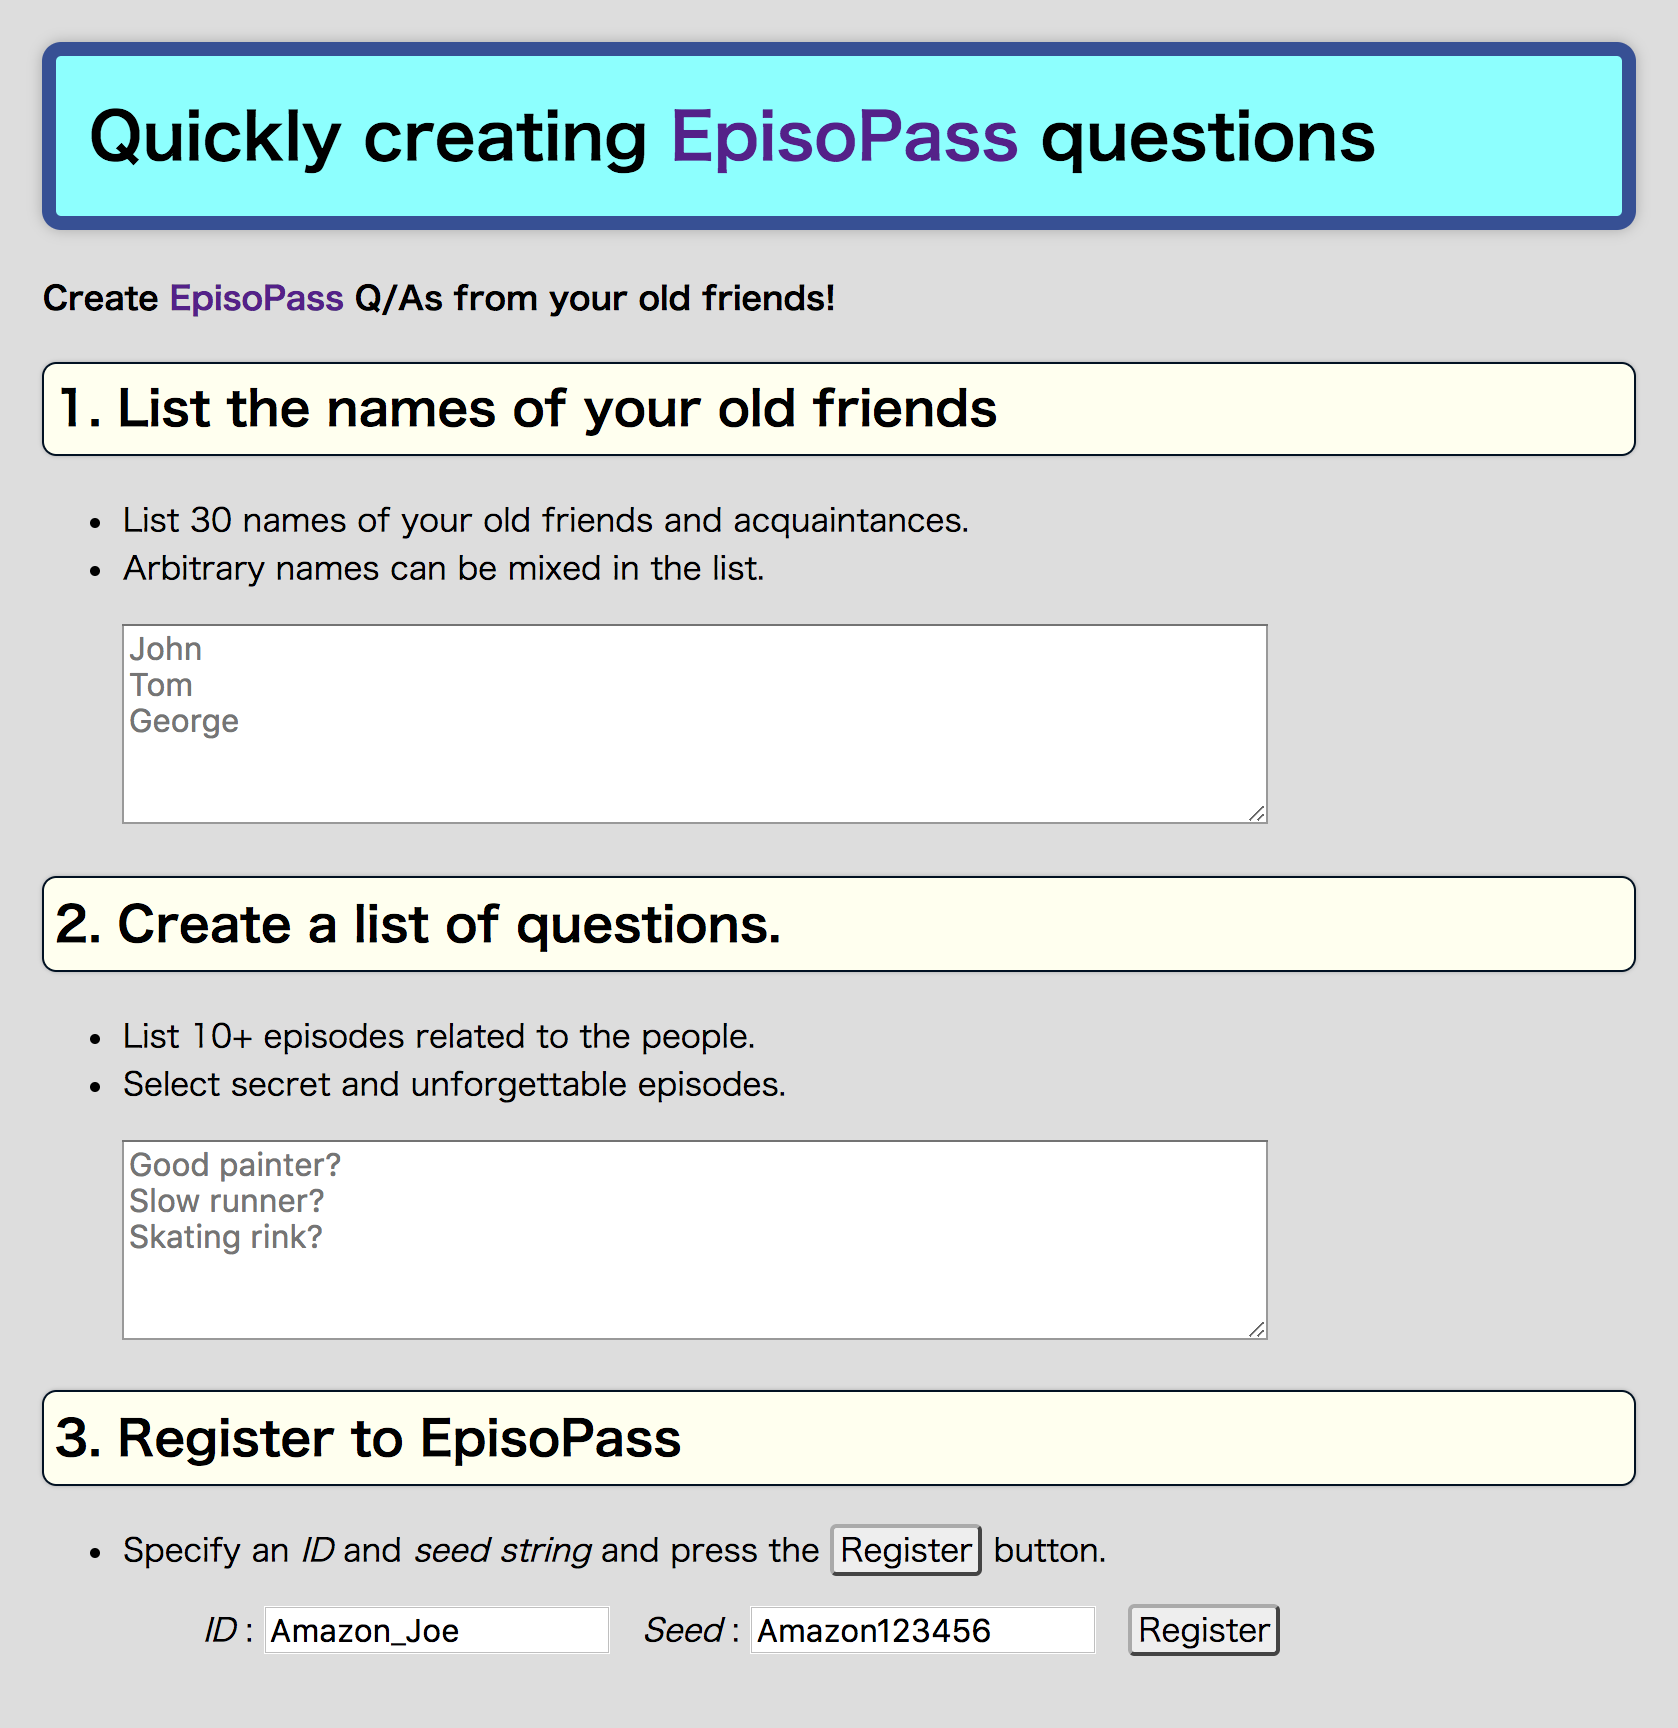
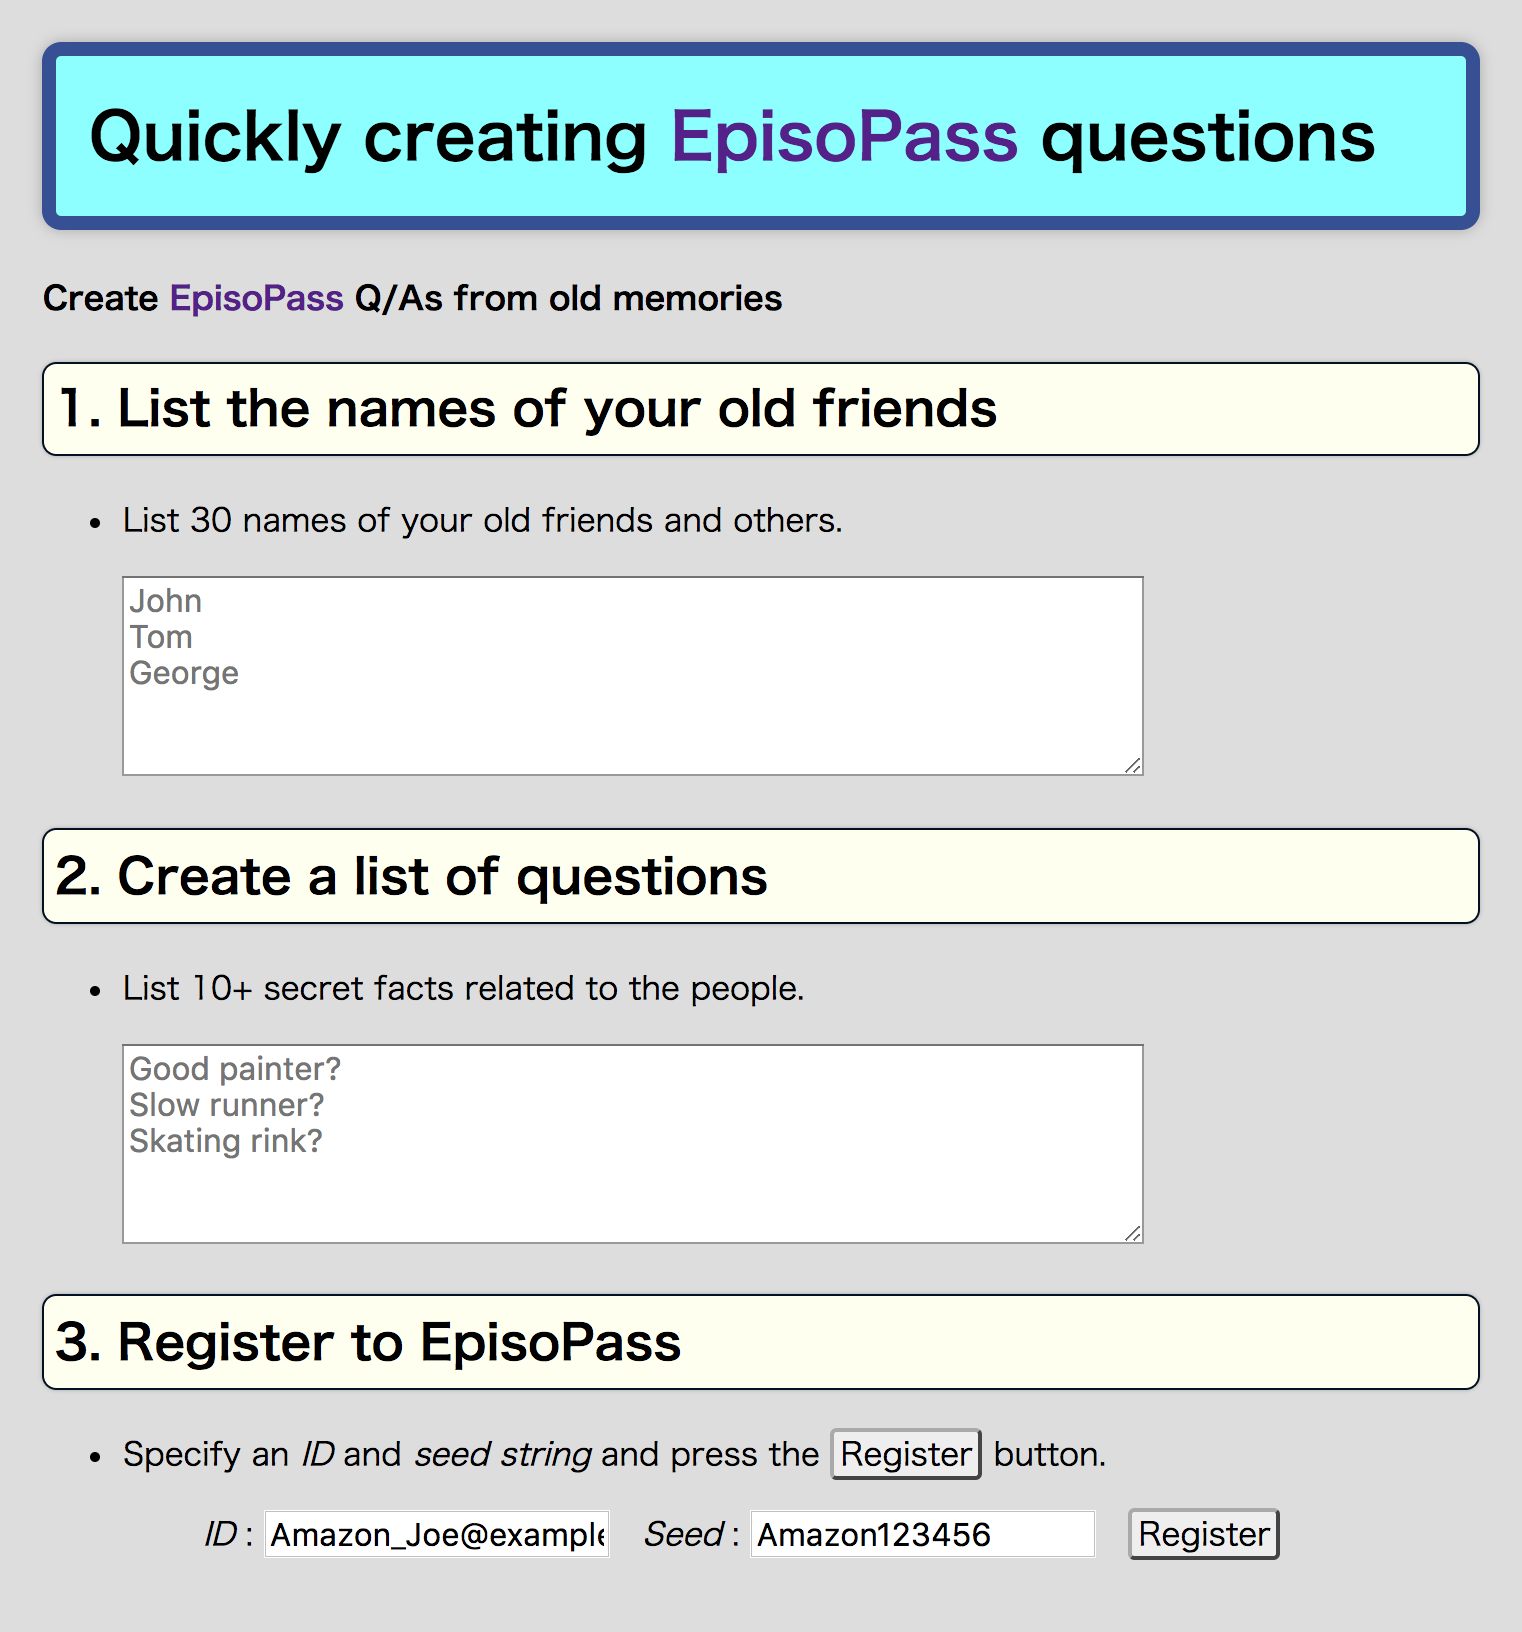
投稿版 (たぶん)

Changed region(s): [[0.0, 0.5, 0.9882, 0.9688], [0.0, 0.0312, 0.9882, 0.4688], [0.9573, 0.5, 0.9882, 0.5625]]

diff --git a/paper/AVI2018/paper.tex b/paper/AVI2018/paper.tex
@@ -194,7 +194,7 @@ password-based authentication, but
 they are sometimes fragile to attacks or memorization is difficult.
 
 We propose a new visual password generation system \textit{EpisoDAS}
-that posesses the advantages of both EpisoPass and DAS-based methods.
+that possesses the advantages of both EpisoPass and DAS-based methods.
 
 \begin{figure}[t]
   % \includegraphics[width=8cm,bb=0 0 840 792]{figures/DAS.png}
@@ -260,7 +260,7 @@ The contents and the order of the questions
 do not depend on the user's actions, and
 the user cannot tell whether he has selected a right answer.
 %
-After repeating the slection process ten times,
+After repeating the selection process ten times,
 the user can get his password
 calculated from his selections (Figure \ref{Result}).
 
@@ -271,7 +271,7 @@ calculated from his selections (Figure \ref{Result}).
 \end{figure}
 
 Users can select correct answers not only by clicking each button,
-but by draggin the pointing device on the buttons.
+but by dragging the pointing device on the buttons.
 %
 If the series of button locations form a special pattern,
 % If the series of buttons are aligned next to each others,
@@ -279,7 +279,7 @@ the user can drag the pointing device like
 Figure \ref{draw} instead of clicking ten buttons,
 and quickly generate a password.
 %
-The order of the list of candidate answers change according to the
+The order of the list of candidate answers changes according to the
 drag or click action,
 and the user can mix the dragging and clicking actions at any point.
 The user can either click ``Boston'' and ``Los Angeles'' one by one or
@@ -288,7 +288,7 @@ click on ``Boston'' and drag the pointing device downward to select
 pen or finger from the surface of the tablet computer.
 
 \begin{figure}[H]
-  \includegraphics[width=12cm,bb=0 0 1356 1046]{figures/draw.png}
+  \includegraphics[width=10cm,bb=-60 0 1296 1046]{figures/draw.png}
   \caption{Drawing a secret pattern on EpisoDAS.}
   \label{draw}
 \end{figure}
@@ -301,7 +301,7 @@ just by drawing a pattern on the EpisoDAS screen.
 EpisoDAS can be used for generating passwords for any kind of systems and
 services, but it is most useful when it is used to log into a Web service.
 Figure \ref{Amazon} shows how a user can use EpisoDAS when
-he wants to log in to Amazon.com.
+he wants to log into Amazon.com.
 If the EpisoDAS extension is installed on the browser,
 an EpisoDAS window appears when a user enters their
 email address and clicks the password field.
@@ -326,7 +326,8 @@ into the password field, making the user to log in without typing a password.
 \end{figure}
 
 The data used in the above example is retrieved from the EpisoDAS database
-on the Web, using the name of the service (\texttt{Amazon})
+created and saved on the EpisoPass page (Figure \ref{EpisoPass}),
+with the name of the service (\texttt{Amazon})
 and the user id (\texttt{john@example.com}).
 
 \section{Data Registration}
@@ -351,11 +352,11 @@ answer candidates are easily selected on EpisoDAS.
 After selecting the correct answers
 (``Boston'', ``Los Angeles'', etc.) on the EpisoPass editor page (Figure \ref{EpisoPass}),
 the user can click the ``DAS'' button on the top-right portion of the
-page to proceed to specify their DAS patten.
+page to proceed to specify their DAS pattern.
 
 \begin{figure}[H]
-  \includegraphics[width=12cm,bb=0 0 1332 1118]{figures/DASRegister.png}
-  \caption{Registring the DAS pattern}
+  \includegraphics[width=10cm,bb=-60 0 1272 1118]{figures/DASRegister.png}
+  \caption{Registering the DAS pattern}
   \label{DASRegister}
 \end{figure}
 
@@ -364,7 +365,8 @@ he can draw the shape shown in Figure \ref{DASRegister}
 on the DAS registration window.
 %
 After registering the pattern, the candidate answers for the EpisoPass is
-shuffled so that the series of correct answers represent the specified pattern.
+shuffled so that the series of correct answers represent the
+specified pattern (U-shape in this case).
 
 \subsection{Registering questions and answers}
 \label{easyregister}
@@ -373,16 +375,16 @@ Questions and answer candidates can be edited interactively on the
 EpisoPass editor page (Figure \ref{EpisoPass}) and arbitrary
 strings can be specified as questions and answer candidates.
 However, creating many questions and answer candidates is
-time-consuming and hard task, because
+time-consuming and hard, because
 people usually feel it difficult to recall old secret episodes.
 %
 To help people easily create EpisoPass questions and answers,
-a support page can be used for easy problem creation
+a support page can be used for creating problems easily
 (Figure \ref{Easy}).
 
-\begin{figure}[H]
-  \includegraphics[width=12cm,bb=0 0 1678 1728]{figures/Easy.png}
-  \caption{Easily creating questions and answers}
+\begin{figure}[t]
+  \includegraphics[width=12cm,bb=0 0 1522 1632]{figures/Easy.png}
+  \caption{A Q-A creation helper.}
   \label{Easy}
 \end{figure}
 
@@ -393,7 +395,7 @@ For example, if the user remembers that Tom was
 very good at drawing, he can add a question
 ``Good painter?'' to the list, assuming Tom is the correct answer.
 
-Recalling special old episodes is sounds hard for many people, but
+Recalling special old episodes sounds hard for many people, but
 recalling an attribute of an old friends is much easier.
 The questions and answers shown in Figure \ref{EpisoPass} was
 created by this system,
@@ -405,7 +407,7 @@ The authors have been using EpisoPass for more than 5 years, and
 using EpisoDAS for about an year.
 No formal evaluation has been performed so far, but
 some people around the authors are enthusiastically using
-EpisoDAS for their daily work, and
+EpisoDAS for their daily activities, and
 important impressions have been observed during the period.
 
 \subsection{Authentication time}
@@ -422,17 +424,17 @@ than entering passwords on such devices.
 
 \subsection{Forgetting factors}
 
-The biggest advantage of using EpisoPass is that users don't have to
+The biggest advantage of using EpisoPass and EpisoDAS is that users don't have to
 remember long password strings.
 %
 After the authors began using EpisoPass,
 they have been having no problem forgetting passwords of any kind.
 %
 As long as a user have the seed string and question-answer data,
-he can easily generate passwords by running
+they can easily generate passwords by running
 EpisoPass and answering the questions.
 %
-If the questions are based on old unforgettable episodic memory,
+If the questions are based on old unforgettable episodic memories,
 there is little chance of losing the password for a service
 as long as the seed string and questions are available.
 %
@@ -446,9 +448,9 @@ unlikely the episode will be forgotten in the future.
 \subsection{Running environment}
 
 EpisoDAS is implemented as a single HTML file that includes a JavaScript
-script for password calculation.
-The HTML file can be put on the Web or saved in a handy USB memory device
-so that it can be accessed from a Web browser.
+code for password calculation.
+The HTML file can be put on the Web or saved in a handy memory device
+so that it can be accessed from any Web browser easily.
 %
 If the questions are based on the user's secret memories and
 a sufficient number of questions and fake answers are provided,
@@ -458,7 +460,8 @@ repository like GitHub.
 The data set of the authors are put on the Web, and it can be easily
 found using Web search engines\footnote{
   The EpisoDAS data of the authors can be found on major Web
-  search enginges using the name of the author and ``password''.
+  search engines using the name of the author and
+  the keyword ``\texttt{password}''.
 }.
 It means that the passwords used by the authors can be retrieved
 even when the data is not available locally.
@@ -469,7 +472,7 @@ Using EpisoDAS, people can use password-based systems
 only by selecting answers based on their episodic memories,
 without remembering passwords or using password management systems.
 Using a browser extension,
-people can use services without noticing that passwords are
+people can use Web services without noticing that passwords are
 required for the service.
 
 Creating a Q-A database is a one-time process,
@@ -478,11 +481,11 @@ after which the system becomes straightforward to use.
 With a proper help, creating a database is not difficult even for
 people who are not good at using computers.
 A helper can ask the client questions like
-``Do you remember an interesting friend in your childfood?''
+``Do you remember your friends in your childhood?''
 to get the list of old friends, and then ask questions like
-``What kind of child was he?'', ``Do you remember his house?''
-to create a question for locating him.
-With such information, the helper can use the technique shwon
+``What kind of person was this guy?'', ``Do you remember his house?''
+to create a question for locating a person.
+With such information, the helper can use the support page shown
 in Section \ref{easyregister} to create the EpisoDAS database
 for the client.
 
@@ -492,7 +495,7 @@ The strength of the generated passwords depends on the number and
 level of secrecy of the questions.
 %
 There have been many studies on the strength of passwords
-\cite{Hayashi:2011:DSP:1978942.1979326,Komanduri:2011:PPM:1978942.1979321}, % What password is strong
+\cite{Hayashi:2011:DSP:1978942.1979326}\cite{Komanduri:2011:PPM:1978942.1979321}, % What password is strong
 but measuring the strength of secret questions is an area where more study is needed.
 % \marginnote{I calculate $20^{10} = 10,240,000,000,000$. This is
 % considerably more than a billion (closer to 10 thousand billion,
@@ -517,7 +520,7 @@ The episode related to each question should therefore not be known to any other 
 and the episode should be unforgettable.
 %
 Finding such episodes seems difficult at first,
-but using the method shown in the last section,
+but using the method shown in Section \ref{easyregister},
 it is not extremely difficult to recall
 many trivial episodes which are unforgettable but
 nonetheless not important to other people.
@@ -536,7 +539,7 @@ Also, memories related to taste is more fragile than fact-based memories like
 % ブルートフォースで答がわかってしまうから
 % 問題を使い回すことは好ましくない
 
-\subsection{Developmenet of browser extensions}
+\subsection{Development of browser extensions}
 
 EpisoDAS browser extension is very useful, but creating the extension
 is cumbersome because there is no standard login form for
@@ -547,12 +550,12 @@ of a Web service (e.g. Amazon),
 and then it should be able to get the ID of the user
 and know where the result of EpisoDAS calculation should be pasted.
 %
-Commercial password managers\cite{OnePassword,Dashlane,LastPass,KeyPass,NortonIDSafe,IDManager}
+Commercial password managers\cite{OnePassword}\cite{Dashlane}\cite{LastPass}\cite{KeyPass}\cite{NortonIDSafe}\cite{IDManager}
 are usually well integrated with Web browsers,
 and EpisoDAS should also be evolved so that
 the browser extension works on many Web services.
 
-\subsection{Battles against sholder surfing}
+\subsection{Caution about shoulder surfing}
 
 Simple DAS authentication is known to be vulnerable to ``shoulder surfing''
 attacks\cite{Aviv:2017:TBS:3134600.3134609}.
@@ -561,36 +564,36 @@ the pattern can be easily observed over the user's shoulder,
 attackers can easily reproduce the login pattern.
 
 This problem is common to all the DAS-based authentication systems,
-and great care should be taken when drawing a secret in the public.
+and great care should be taken when drawing a secret pattern in the public.
 EpisoDAS users can use more complex DAS patterns than
 conventional DAS systems,
 because there is no risk of forgetting the pattern,
 since the user can read the question at any time and
-remember the secret pattern which corresponds to the
+recall the secret pattern which corresponds to the
 answers to the questions.
 
-\subsection{Risks of Forgetting DAS pattern}
+\subsection{Risks of forgetting DAS patterns}
 
-Using a conventional DAS system, users should be carefull about
+Using a conventional DAS system, users should be careful about
 remembering the DAS pattern.
 DAS patterns may be more easily remembered than password texts,
 but there is always some risks about forgetting them.
-Using EpisoDAS, users can easily remember the DAS pattern
+Using EpisoDAS, users can easily recall the DAS pattern
 just by reading the questions and answers.
 Users can be very sure that they will never forget the pattern,
-because the pattern can be retrieved by answering the questions.
+because the pattern can easily be retrieved by answering the questions.
 
-EpisoDAS is the combination of EpisoPass and DAS-based authentication methods.
-A user can generate a password using his episodic memories, or
-he can generate a password using the DAS pattern he remembers.
+% EpisoDAS is the combination of EpisoPass and DAS-based authentication methods.
+% A user can generate a password using his episodic memories, or
+% he can generate a password using the DAS pattern he remembers.
 
 \section{Conclusions}
 
 We introduced a password management system \textit{EpisoDAS}
 that generates a password from a seed string by
-quicly drawingn a secret pattern backed by the user's episodic memories.
+quickly drawing a secret pattern backed by the user's episodic memories.
 These memories are represented as a set of questions and answers
-which can be solved only by the user in order to generate a site-specific password.
+that can be solved only by the user in order to generate a site-specific password.
 %
 Using EpisoDAS, a user can log into Web services quickly without
 worrying about
